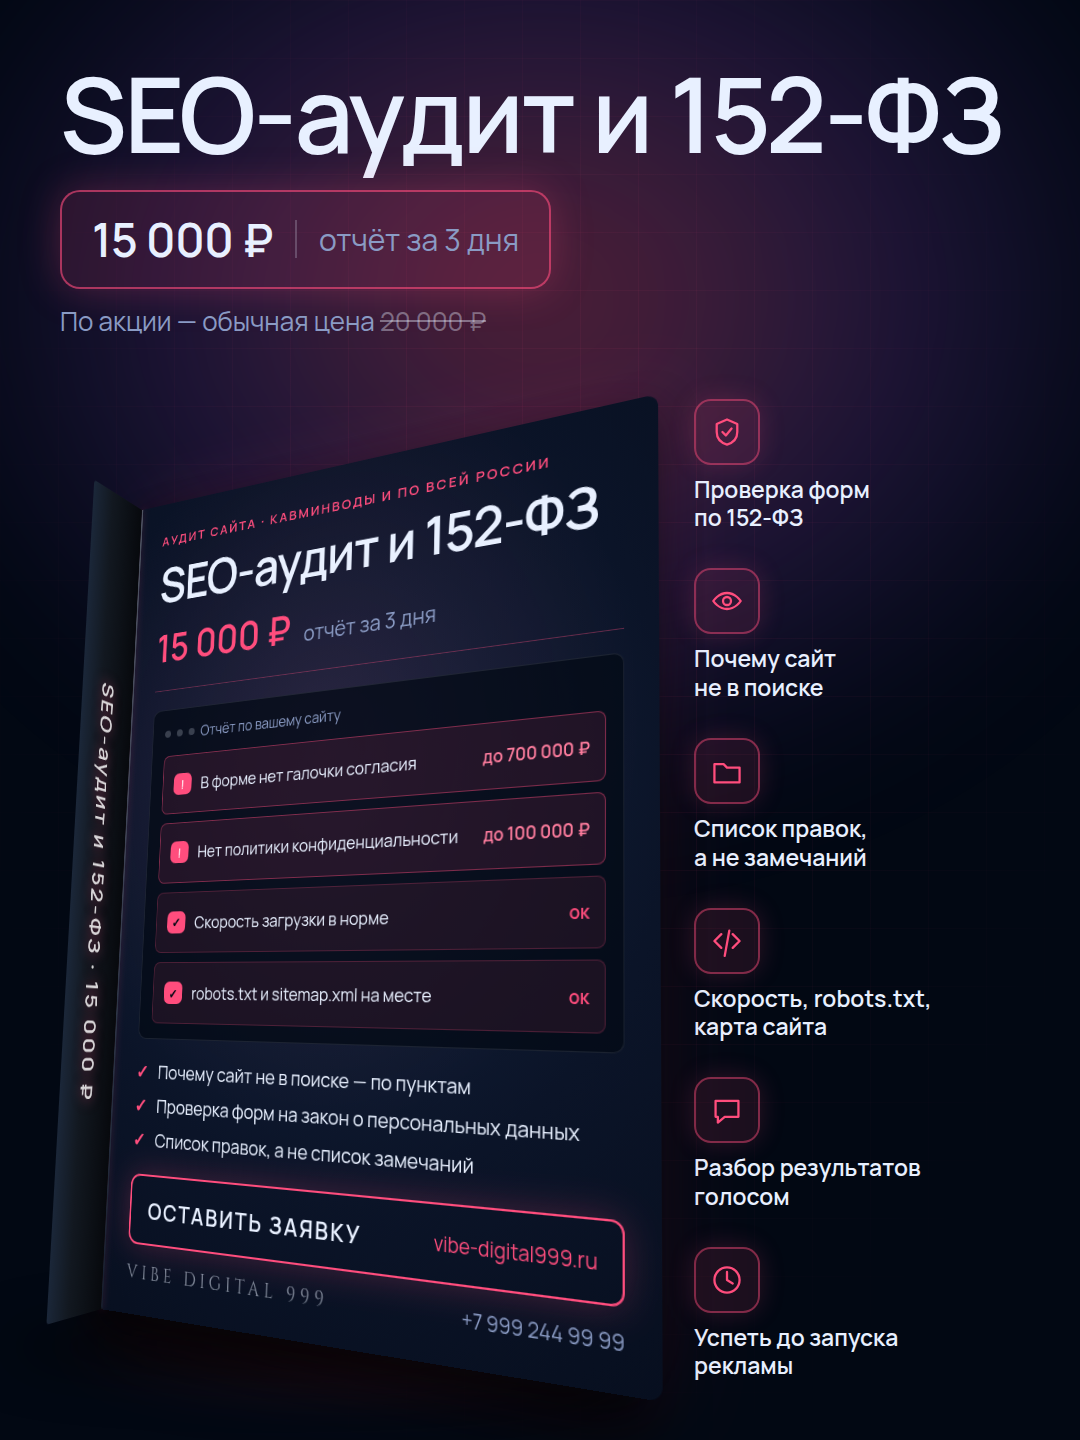
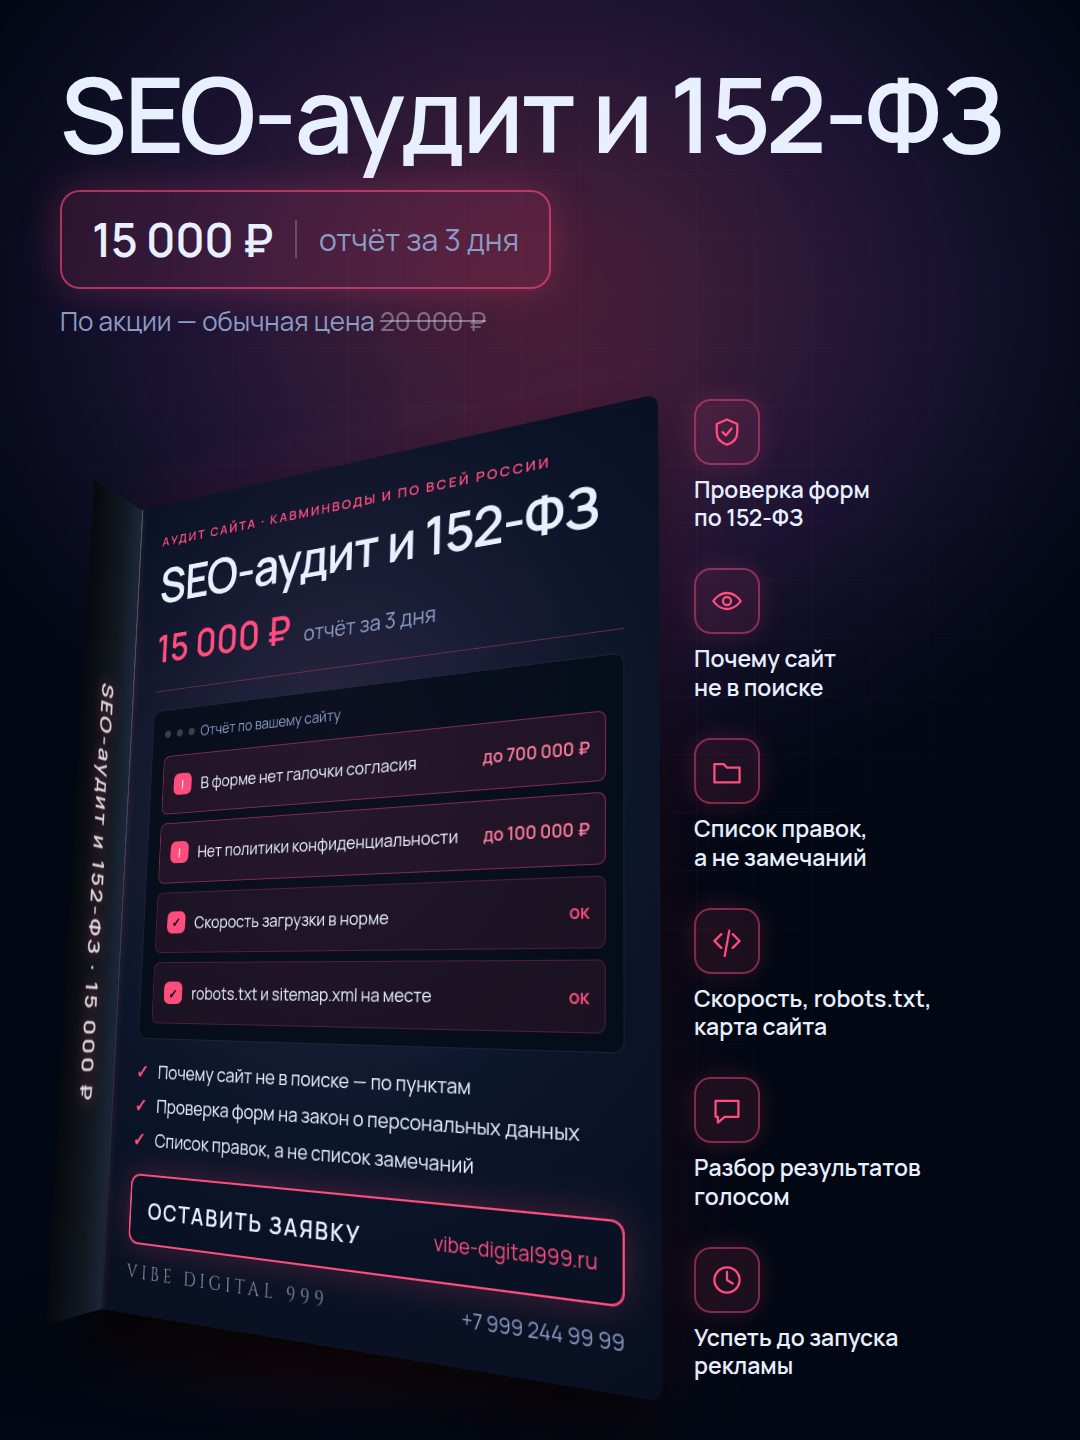
Надпись на торце читается сверху вниз, щель на сгибе убрана
Текст вынесен в отдельный блок .spine-text: у псевдоэлемента одна
трансформация на всё, и поворот надписи ехал бы вместе с геометрией.

Щель давало скругление: левые углы книги и корешка скруглены по-разному
и не совпадали. Слева скругление снято у обоих, сгиб стал ребром.

Claude-Session: https://claude.ai/code/session_01ELgwZhZjs3zH5Yv9y5TfEh

Changed region(s): [[0.0306, 0.3438, 0.1528, 0.9375]]

diff --git a/marketing/karty-korobka.js b/marketing/karty-korobka.js
@@ -167,9 +167,6 @@ ${fontCss}
   :root{
     --ink:#020813; --white:#E8F0FF; --mist:#8A9BC4;
     --acc:${k.color}; --acc2:${k.color2};
-    /* Надпись на торце. Через переменную, потому что content
-       у псевдоэлемента иначе не собрать из данных. */
-    --korshok:"${k.title} · ${k.cena}";
   }
 
   body{width:${W}px;height:${H}px;background:var(--ink);color:var(--white);
@@ -254,7 +251,7 @@ ${fontCss}
 
   .book{position:relative;z-index:1;flex:1;
     padding:34px 32px 30px;
-    border-radius:4px 12px 12px 4px;
+    border-radius:0 12px 12px 0;
     transform-style:preserve-3d;
     transform:rotateY(-28deg) rotateX(7deg) rotateZ(-2deg);
 
@@ -274,27 +271,36 @@ ${fontCss}
 
     display:flex;flex-direction:column}
 
-  /* КОРЕШОК. Пристыкован к левому ребру и уходит вглубь: поворот вокруг
-     собственного левого края на 90°. Ни рамки, ни внутренней тени —
-     они и давали светящуюся щель между гранями. */
-  .book::before{content:var(--korshok);
-    position:absolute;left:0;top:0;width:var(--tolshchina);height:100%;
+  /* КОРЕШОК. Пристыкован к левому ребру и уходит вглубь: жёсткий
+     разворот на 90° вокруг собственного левого края. Ни рамки,
+     ни внутренней тени, ни скругления — всё это давало щель на сгибе.
+     Скругление на левых углах книги тоже снято: сгиб должен быть
+     ребром, а не двумя закруглениями, которые не совпадают. */
+  .book::before{content:'';position:absolute;left:0;top:0;
+    width:var(--tolshchina);height:100%;
     transform-origin:left center;
-    /* Читать справа налево: сдвиг на свою ширину, зеркало, поворот.
-       Зеркало здесь не украшение — к зрителю торец обращён изнанкой,
-       и без него надпись читается вывернутыми буквами. Сдвиг возвращает
-       грань на место после зеркала, поэтому геометрия не едет:
-       корешок по-прежнему уходит вглубь ровно на свою толщину. */
-    transform:rotateY(-90deg) scaleX(-1) translateX(-100%);
-    background:linear-gradient(270deg,#07090D 0%,#121820 62%,#1B2739 100%);
-    border-radius:4px 0 0 4px;
+    transform:rotateY(-90deg);
+    background:linear-gradient(270deg,#07090D 0%,#121820 62%,#1B2739 100%)}
 
-    /* Надпись на торце: строка кладётся вертикально и центрируется.
-       writing-mode вместо rotateZ — так буквы не выходят за узкий торец
-       и не требуют подгонки сдвигом. */
-    writing-mode:vertical-rl;text-align:center;white-space:nowrap;
+  /* НАДПИСЬ НА ТОРЦЕ — отдельным блоком, а не содержимым псевдоэлемента.
+     Причина: у ::before одна трансформация на всё, и поворот надписи
+     пришлось бы вешать на ту же строку, что держит геометрию грани, —
+     любая правка текста ехала бы вместе с телом книги. Отдельный блок
+     разводит эти две задачи.
+
+     Внутри span повёрнут на 90° — читается сверху вниз, как на корешке
+     печатной книги. rotateY(180deg) гасит зеркало: к зрителю торец
+     обращён изнанкой. Меняешь одно — проверяй второе на увеличенном
+     куске, на общем плане не разобрать. */
+  .spine-text{position:absolute;left:0;top:0;
+    width:var(--tolshchina);height:100%;
+    transform-origin:left center;
+    transform:rotateY(-90deg);
     display:flex;align-items:center;justify-content:center;
-    color:rgba(255,255,255,.82);font-size:26px;font-weight:800;
+    overflow:hidden;pointer-events:none}
+  .spine-text span{white-space:nowrap;
+    transform:rotateY(180deg) rotate(90deg);
+    color:rgba(255,255,255,.85);font-size:26px;font-weight:800;
     letter-spacing:.12em;
     text-shadow:0 0 16px color-mix(in srgb, var(--acc) 50%, transparent)}
 
@@ -388,6 +394,7 @@ ${fontCss}
     <div class="scena">
       <div class="book-container">
         <div class="book">
+          <div class="spine-text"><span>${k.title} · ${k.cena}</span></div>
             <div class="f-eye">${k.eyebrow}</div>
             <div class="f-title">${k.title}</div>
             <div class="f-cena"><b>${k.cena}</b><span>${k.srokPrefix} ${k.srok}</span></div>

diff --git a/TASKS.md b/TASKS.md
@@ -3218,3 +3218,28 @@ GreenSock). Проверено открытием страниц, а не пои
 
 - [ ] Посмотреть: собралась ли книга монолитом.
 - [ ] Сказать, если 84px всё-таки много — это одно число.
+
+### 13 августа, дополнение — надпись на торце и щель на сгибе
+
+**Сделано:**
+
+- [x] `      ` **Надпись вынесена из псевдоэлемента в отдельный блок
+      `.spine-text`.** У `::before` одна трансформация на всё: поворот
+      надписи пришлось бы вешать на ту же строку, что держит геометрию
+      грани, и любая правка текста ехала бы вместе с телом книги.
+      Теперь текст поворачивается независимо — читается сверху вниз,
+      как на корешке печатной книги.
+- [x] `      ` **Щель на сгибе убрана.** Причина была не в трансформации,
+      а в скруглении: у книги левые углы были скруглены на 4px,
+      у корешка тоже, и два скругления не совпадали — между ними
+      оставался просвет, заметный внизу. Скругление слева снято
+      у обоих: сгиб должен быть ребром. Справа скругление осталось.
+- [x] `      ` Проверено на увеличенных вырезах — и надпись, и нижний
+      угол. На общем плане ни то, ни другое не разобрать.
+
+**Итог по книге за вечер: пять заходов.** Плоская панель → корешок
+поперёк лица → вывернутая наизнанку → щели между гранями → готово.
+Каждый раз ошибку видела владелица, а не проверка. Записанное правило
+«нарисовал — открой и посмотри» работает только вполовину: смотреть
+надо и на увеличенные куски, потому что зеркальный текст, щель в сгибе
+и косой угол на общем плане выглядят правдоподобно.
